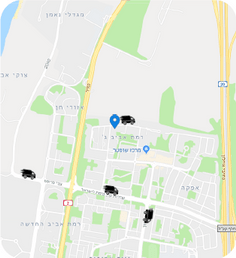
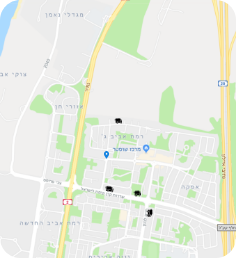
Fixed sender2 image and page

diff --git a/includes/style.css b/includes/style.css
@@ -286,14 +286,14 @@
 	position:relative;
 	background-image: url("../images/serachMap.png");
 	background-repeat: no-repeat;
-	height:446px;
-	width:401px;
-	top:50px;
+	height:397px;
+	width:446px;
+	top:20px;
 }
 .rangeWidth{
 	position:relative;
-	width:400px;
-	margin-top:5px;
+	width:446px;
+	margin-top:20px;
 }
 .rangeCenter {text-align:center}
 
